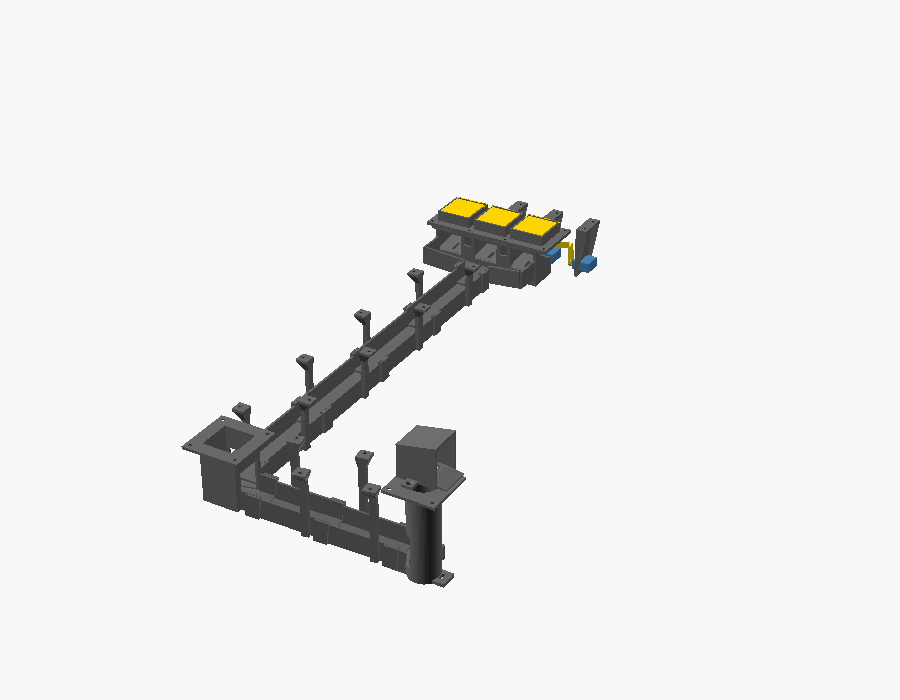
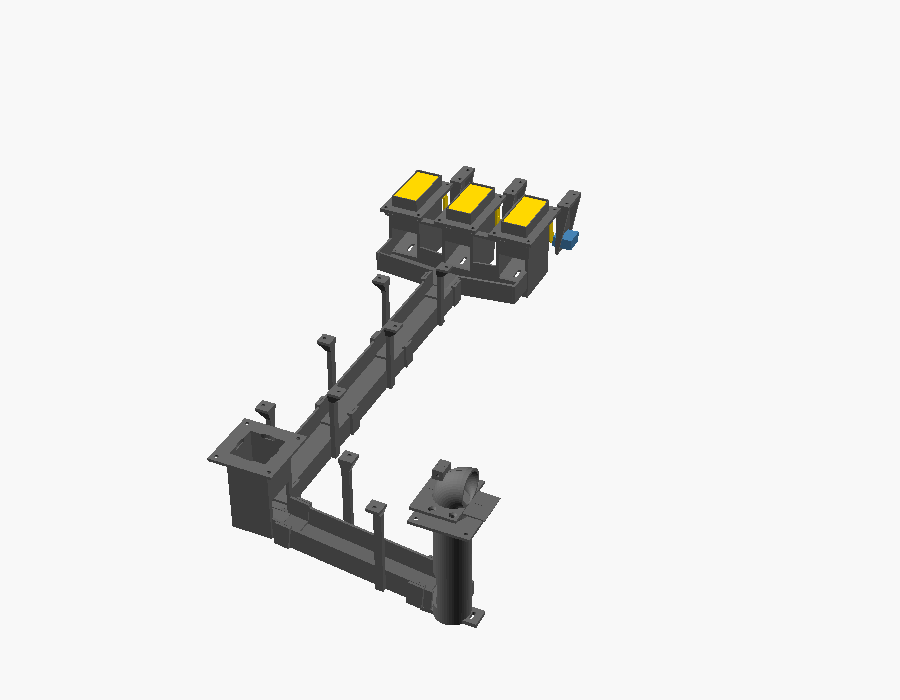
Fit the 3D-printed ball return to the measured table
measurements.scad now has the table's measurements: the playfield (520 x
1079 mm, 13.5 mm thick), the trapdoor holes (30.5 x 65 mm, 65.5 mm
apart), the outhole (37.8 mm, 95 mm from the front) and the shooter lane
(35 mm wide, its 12.9 mm wall at 459 mm). The flaps are topped with the
1 mm metal plates.

The holes are only 3.5 mm wider than the ball, so the trapdoors change:
- one frame per hole, with a 1 mm sleeve, so each fits the printer;
- the flap's rib moves from its edge to its middle, keeping the same
  linkage, so the catch box gets the hole's full width; the link passes
  over the box's low back wall, and only while the flap is closed;
- each flap is 1 mm thinner, with the metal plate glued on top flush
  with the playfield, cut to the size the flap file prints (27.3 x 59.3
  mm here).

The ball-path check now drops the ball off the catch box's edge into
the trough, as a real ball does, instead of along a straight line that
clipped the edge. A new test checks measurements.scad against the
playfield map, and CI runs it when either changes. The guide and its
pictures are updated.

Changed region(s): [[0.1867, 0.24, 0.6844, 0.9]]

diff --git a/crates/pinball-sim/src/lib.rs b/crates/pinball-sim/src/lib.rs
@@ -1056,6 +1056,93 @@ mod tests {
         }
     }
 
+    /// The 3D-printed ball return's measurements of the table.
+    const MEASUREMENTS: &str = include_str!("../../../hardware/3d/measurements.scad");
+
+    /// A number from `hardware/3d/measurements.scad`, by name.
+    fn measurement(name: &str) -> f32 {
+        MEASUREMENTS
+            .lines()
+            .find_map(|line| {
+                line.strip_prefix(name)?
+                    .trim_start()
+                    .strip_prefix('=')?
+                    .trim()
+                    .trim_end_matches(';')
+                    .parse()
+                    .ok()
+            })
+            .unwrap_or_else(|| panic!("measurements.scad has no {name}"))
+    }
+
+    #[test]
+    fn the_3d_measurements_match_the_playfield_map() {
+        // The printed parts and the map must agree on the table. The map's y
+        // runs from the board's back edge, measurements.scad's from its front.
+        let near = |scad: f32, map: f32, what: &str| {
+            assert!(
+                (scad - map).abs() <= 0.5,
+                "{what}: measurements.scad says {scad}, the map {map}"
+            );
+        };
+        let board = "data-board=\"\"";
+        let length = map_number(board, "height");
+        near(
+            measurement("playfield_width"),
+            map_number(board, "width"),
+            "board width",
+        );
+        near(measurement("playfield_length"), length, "board length");
+        let door = |n: u8, name: &str| map_number(&format!("data-trapdoor=\"{n}\""), name);
+        let centre_x = |n: u8| door(n, "x") + door(n, "width") / 2.0;
+        near(
+            measurement("trapdoor_x"),
+            centre_x(1),
+            "middle trapdoor across",
+        );
+        near(
+            measurement("trapdoor_y"),
+            length - (door(1, "y") + door(1, "height") / 2.0),
+            "middle trapdoor up the table",
+        );
+        near(
+            measurement("trapdoor_spacing"),
+            centre_x(1) - centre_x(0),
+            "trapdoor spacing",
+        );
+        near(
+            measurement("trapdoor_spacing"),
+            centre_x(2) - centre_x(1),
+            "trapdoor spacing",
+        );
+        near(
+            measurement("hole_width"),
+            door(1, "width"),
+            "trapdoor hole width",
+        );
+        near(
+            measurement("hole_length"),
+            door(1, "height"),
+            "trapdoor hole length",
+        );
+        let outhole = "data-switch=\"C0R0\"";
+        near(
+            measurement("outhole_x"),
+            map_number(outhole, "cx"),
+            "outhole across",
+        );
+        near(
+            measurement("outhole_y"),
+            length - map_number(outhole, "cy"),
+            "outhole up the table",
+        );
+        near(
+            measurement("outhole_diameter"),
+            2.0 * map_number(outhole, "r"),
+            "outhole diameter",
+        );
+    }
+
     #[test]
     fn measured_points_can_line_up_a_photo() {
         // The trace page (sim/web/trace/) lines a photo up with the map by the

diff --git a/docs/3d-printing.md b/docs/3d-printing.md
@@ -9,16 +9,19 @@ Making them fit means measuring the table and typing the numbers in.
 
 ![the whole ball return under the playfield: the trapdoors at the back, the return run down to the outhole funnel, and the serve run across to the ball lift](images/ball-return.png)
 
-*The whole return, seen from above with the playfield hidden, with the
-placeholder measurements: the trapdoors (top right), the return run down the
+*The whole return, seen from above with the playfield hidden, sized for this
+table: the trapdoors (top right), the return run down the
 table, the outhole funnel (left), and the serve run across to the ball lift,
 with its exit on top.*
 
 ## How it works
 
-1. **The trapdoors.** Each flap is hinged along its back edge. When the game
-   opens it, its servo swings it down through a link and crank until it hangs
-   straight down, clearing the hole. Closed, the servo holds it flush.
+1. **The trapdoors.** Each hole has its own frame, whose thin sleeve slides up
+   into the hole. The flap, topped with a 1 mm metal plate so it's flush with
+   the playfield, is hinged along its back edge. When the game opens it, its
+   servo swings it down through a rib under its middle, a link and a crank,
+   until it hangs straight down, clearing the hole. Closed, the servo holds it
+   flush.
 2. **The catch boxes.** A ball dropping through lands in that trapdoor's own
    box, rolls forward over that trapdoor's microswitch, and drops into the
    collector trough across the front.
@@ -54,16 +57,17 @@ rises through the playfield and bends over towards the shooter lane's wall
 |---|---|
 | ![a trapdoor's drive, cut away: the link runs from the rib under the closed flap down to the crank on the servo](images/trapdoor-closed.png) | ![the same drive with the trapdoor open: the crank has turned and the rib has swung back as the flap hangs down](images/trapdoor-open.png) |
 
-*The right-hand trapdoor's drive, cut away beside it: the rib under the flap
-(top left), the link, and the crank on the servo. Opening, the servo turns the
-crank about 80 degrees and the flap swings down to hang straight.*
+*The right-hand trapdoor's drive, cut away beside it: the rib under the middle
+of the flap (top), the link, and the crank on the servo. Opening, the servo
+turns the crank about 80 degrees and the flap swings down to hang straight,
+with the rib swung back behind it.*
 
 ## The parts
 
 | Part | File | Print | What it does |
 |---|---|---|---|
-| Trapdoor frame | `trapdoor_frame.scad` | 1 | Slides up into all three trapdoor holes and screws on underneath. Holds the flaps' hinge pins. |
-| Trapdoor flap | `trapdoor_flap.scad` | 3 | Sits flush in the frame and pivots on its pin. The rib underneath joins the link. |
+| Trapdoor frame | `trapdoor_frame.scad` | 3 | Slides up into a trapdoor hole and screws on underneath. Holds the flap's hinge pin. Its sleeve's walls are 1 mm thick: print with a 0.4 mm nozzle. |
+| Trapdoor flap | `trapdoor_flap.scad` | 3 | Sits in the frame, with a metal plate glued on top, and pivots on its pin. The rib underneath joins the link. |
 | Trapdoor link | `trapdoor_link.scad` | 3 | Joins a flap's rib to its crank. |
 | Trapdoor crank | `trapdoor_crank.scad` | 3 | Screws to the servo's horn and turns the link. |
 | Servo hanger | `trapdoor_servo_hanger.scad` | 3 | Screws under the playfield behind a trapdoor and holds its servo. |
@@ -91,14 +95,19 @@ brew install --cask openscad@snapshot
 
 ## 2. Measure your table
 
-The sizes in `hardware/3d/measurements.scad` are placeholders. With digital
-calipers and a tape measure (see the [shopping list](shopping-list.md#9-tools)),
-measure, on the underside of the playfield:
+Most sizes in `hardware/3d/measurements.scad` are measured from this table
+(the playfield, trapdoors, outhole and shooter lane); the rest, such as the ball
+lift and the ball-serve coil, are placeholders, and the file says which. A test
+checks the measured ones agree with the playfield map, `docs/playfield.svg`, so
+change both together. With digital calipers and a tape measure (see the
+[shopping list](shopping-list.md#9-tools)), measure, on the underside of the
+playfield:
 
 - **The playfield's thickness** at the trapdoor holes.
 - **Each trapdoor hole's width** (across the table) **and length** (up the
   table), and the distance between the holes' centres. If the holes differ,
   use the smallest.
+- **The metal plates' thickness**, for the tops of the flaps.
 - **Where things are**, measured from the playfield's **bottom-left corner**
   (nearest the player's left hand): the centre of the middle trapdoor hole,
   the centre of the outhole and its diameter, and the centre of the hole beside
@@ -114,7 +123,7 @@ measure, on the underside of the playfield:
 Also check what's already under the playfield along the route: the return run
 goes straight from the trapdoors to the outhole, and the serve run straight
 across to the shooter lane. `pnpm run export:3d` prints how far below the
-playfield the deepest part reaches (about 105 mm with the placeholders), and
+playfield the deepest part reaches (about 120 mm on this table), and
 the ball-serve coil hangs below that. Note anything in the way (coils, wiring,
 old brackets, the old outhole mechanism) and the depth to the cabinet floor.
 
@@ -197,19 +206,23 @@ rest.
 
 ## 7. Fit it
 
-1. **Trapdoors.** Push each flap's hinge pin (2 mm steel rod) through the
-   frame, the flap's knuckle and out the other side, and trim it flush. If the
-   frame's holes are too tight, open them with a 2 mm drill. Slide the frame up
-   into the holes and screw it on with 3.5 × 9.5 mm wood screws: **no longer
-   than 9.5 mm**, or they'll come through the playfield's artwork.
+1. **Trapdoors.** Cut each metal plate to the size `trapdoor_flap.scad` prints
+   in OpenSCAD's console (27.3 × 59.3 mm on this table), file the edges smooth,
+   and glue it to the top of its flap with epoxy or contact adhesive, flush with
+   the edges. Push each flap's hinge pin (2 mm steel rod) through its frame, the
+   flap's knuckle and out the other side, and trim it flush with the sleeve. If
+   the frame's holes are too tight, open them with a 2 mm drill. Slide each
+   frame up into its hole and screw it on with 3.5 × 9.5 mm wood screws: **no
+   longer than 9.5 mm**, or they'll come through the playfield's artwork. The
+   wood either side of the sleeve keeps the pin from sliding out.
 2. **Servos.** Screw each servo into its hanger, shaft pointing left, and screw
    the hanger under the playfield behind its trapdoor. Screw a crank to each
    servo's single-arm horn and press it onto the shaft. Join the flap's rib to
    the crank with a link, with an M2 × 10 mm screw at each end (into the rib
    and into the crank). Set the angles in test mode (wiring guide section 7f).
 3. **Collector.** Screw a lever microswitch under each catch box, its lever up
-   through the slot, and screw the collector to the frame's front flange with
-   M3 × 6 mm self-tapping screws.
+   through the slot, and screw the collector to the frames' front flanges with
+   M3 × 6 mm self-tapping screws, one into each frame.
 4. **Runs.** Fit the return run's segments in order from the collector, each
    socket over the end of the part before, and screw their posts to the
    playfield. Then the outhole funnel under the outhole, the serve run's

diff --git a/docs/shopping-list.md b/docs/shopping-list.md
@@ -222,7 +222,7 @@ The trapdoors are rebuilt with a hobby servo turning each flap; see the
 | Servo extension leads, 30–50 cm | 3 | From under the playfield to the Arduino | [AliExpress](https://www.aliexpress.com/w/wholesale-servo-extension-cable.html) | 2–4 |
 | Lever microswitches (KW11 type) | 5 | One in each trapdoor's catch box and one in the ball lift (the outhole switch), plus a spare | [AliExpress](https://www.aliexpress.com/w/wholesale-kw11-micro-switch-lever.html) | 2–4 |
 | 2 mm steel rod | 1 length | The flaps' hinge pins | [AliExpress](https://www.aliexpress.com/w/wholesale-2mm-steel-rod.html) | 2–4 |
-| 3D-printed ball return, PETG | about 25 parts | The trapdoors' frame, flaps, links, cranks, servo hangers and collector, and the return run, outhole funnel, serve run, ball lift and its exit, from a printing service, library or makerspace. See [3D-printed ball return](3d-printing.md). | [JLCPCB](https://jlcpcb.com/3d-printing) · [Craftcloud](https://craftcloud3d.com) | 40–90 |
+| 3D-printed ball return, PETG | about 27 parts | The trapdoors' frames, flaps, links, cranks, servo hangers and collector, and the return run, outhole funnel, serve run, ball lift and its exit, from a printing service, library or makerspace. See [3D-printed ball return](3d-printing.md). | [JLCPCB](https://jlcpcb.com/3d-printing) · [Craftcloud](https://craftcloud3d.com) | 40–90 |
 | 🛡 Wood screws, 3.5 × 9.5 mm (No. 6 × 3/8") | 1 pack | The frames, into the playfield's underside. **No longer than 9.5 mm**, or they come through the artwork. | [AliExpress](https://www.aliexpress.com/w/wholesale-wood-screw-3.5x9.5.html) | 2–4 |
 | Self-tapping screw assortment, M2 and M3 | 1 box | The collector to the frame (M3 × 6 mm), the ball-lift exit's halves together (M3 × 16 mm), the cranks to the servo horns, and the links' pivots (M2 × 10 mm) | [AliExpress](https://www.aliexpress.com/w/wholesale-self-tapping-screw-assortment-m2-m3.html) | 3–5 |
 | M3 × 8 mm grub screws (set screws) | 1 small pack | Holds the ball-lift cup on the coil's plunger, flush with the cup's side; comes with a hex key | [AliExpress](https://www.aliexpress.com/w/wholesale-m3-grub-screw.html) | 1–3 |
